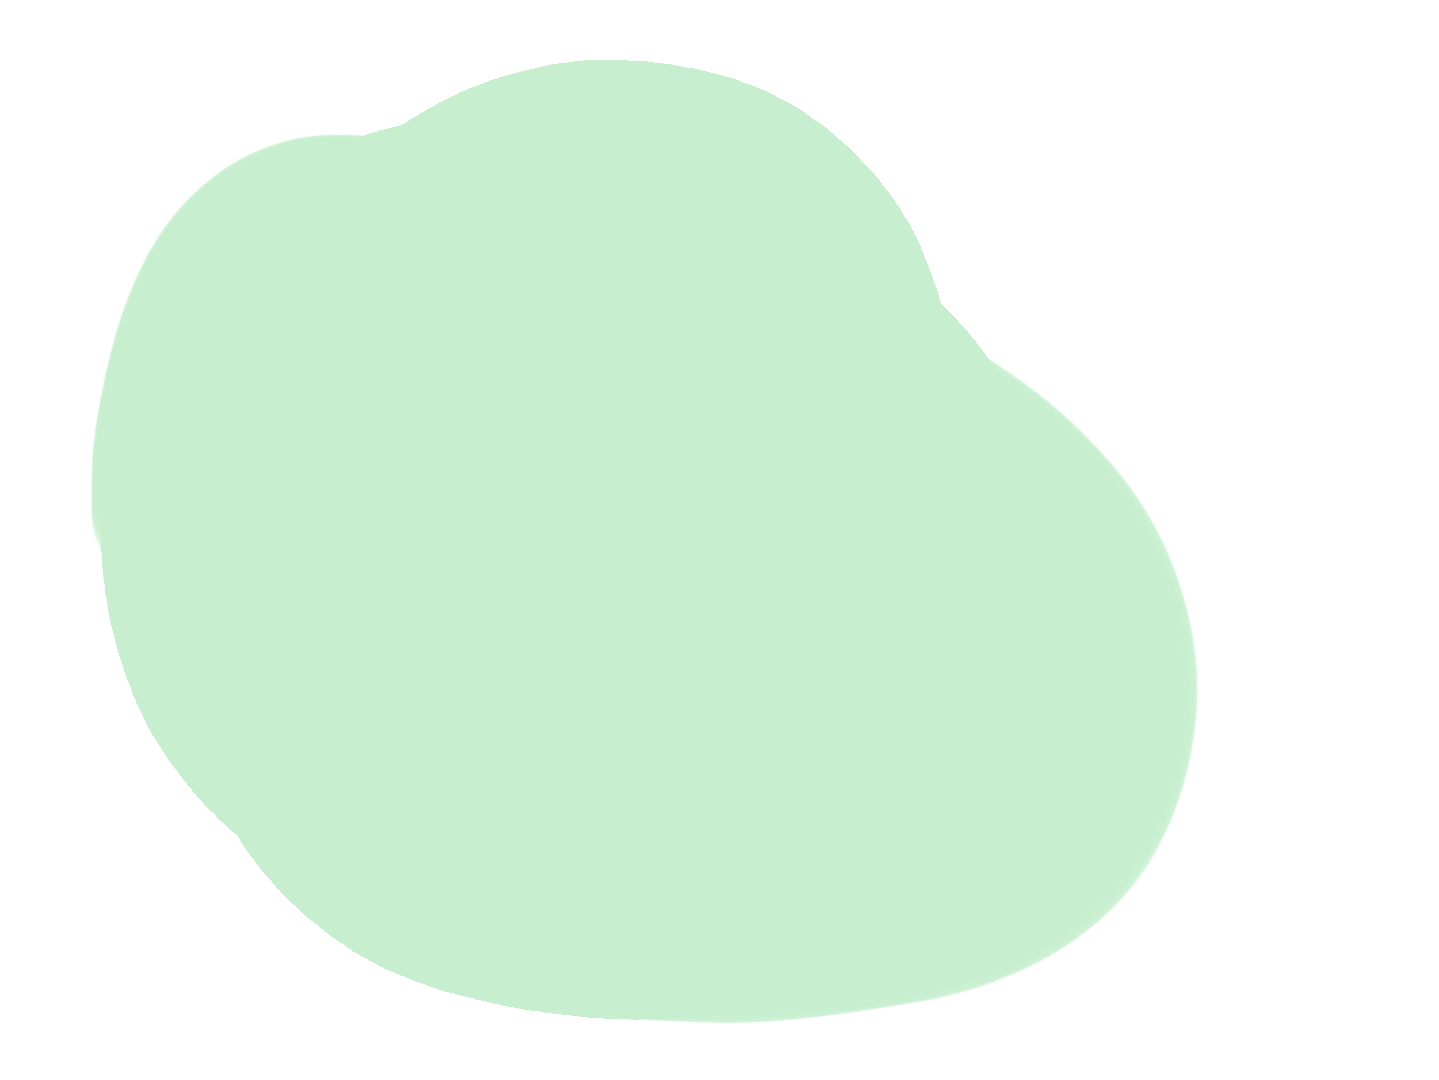
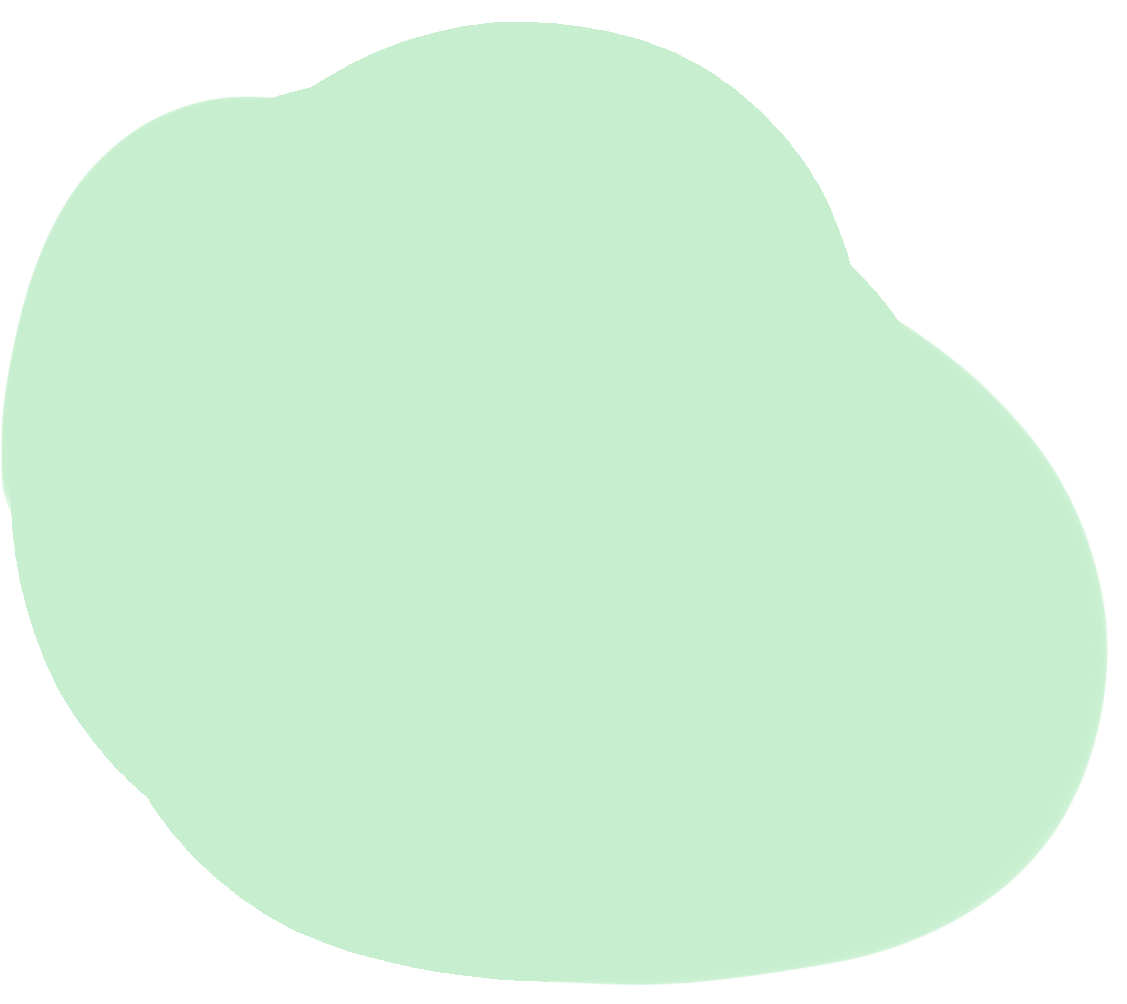
fix

Changed region(s): [[0.0, 0.0, 0.9938, 0.988]]

diff --git a/index.html b/index.html
@@ -1,17 +1,21 @@
 <!DOCTYPE html>
 <html lang="en">
+
 <head>
     <meta charset="UTF-8">
     <meta name="viewport" content="width=device-width, initial-scale=1.0">
     <title>Mia Herman</title>
-    <link rel="stylesheet" href="style.css">
+    <link rel="stylesheet" href="large.css">
+    <link rel="stylesheet" href="medium.css">
+    <link rel="stylesheet" href="small.css">
     <script defer src="script.js"></script>
 </head>
+
 <body>
     <div class="about-me">
         <div>
-           <h1>Hi! I'm Mia Herman</h1>
-           <p>Web development. Graphic Design. Illustrator.<br> Jack of all trades.</p>
+            <h1>Hi! I'm Mia Herman</h1>
+            <p>Web development. Graphic Design. Illustrator.<br> Jack of all trades.</p>
         </div>
         <div>
             <img class="logo" src="images/logo.png" alt="logo">
@@ -19,22 +23,45 @@
     </div>
 
     <div class="portfolio">
-        <div><img class="lime-blob" src="images/lime-blob.png"></div>
-        <div class='text'><h1>SKILLS<br></h1> 
-            <ul><li>Photoshop</li>
-                <li>Illustrator</li>
-                <li>Project Management</li><br>
-                <li>shubulu</li>
-                <li>shubulu</li>
-                <li>shubulu</li>
-                <li>shubulu</li></ul>
-        </div>
+            <img class="lime-blob" src="images/lime-blob.png">
+                <div class="box-1">
+                    <h1>SKILLS<br></h1>
+                    <ul>
+                        <li>Photoshop</li>
+                        <li>Illustrator</li>
+                        <li>Project Management</li><br>
+                        <li>shubulu</li>
+                        <li>shubulu</li>
+                        <li>shubulu</li>
+                        <li>shubulu</li>
+                        <li>shubulu</li>
+                        <li>shubulu</li>
+                        <li>shubulu</li>
+                    </ul>
+                </div>
+
+            <img class="orange-blob" src="images/orange-blob.png">
+                <div class="box-2">
+                    <ul>
+                        <li>Photoshop</li>
+                        <li>Illustrator</li>
+                        <li>Project Management</li><br>
+                        <li>shubulu</li>
+                        <li>shubulu</li>
+                        <li>shubulu</li>
+                        <li>shubulu</li>
+                        <li>shubulu</li>
+                        <li>shubulu</li>
+                        <li>shubulu</li>
+                    </ul>
+                </div>
     </div>
-    
+
     <div class="contact-me">
         <h3>plz write me im lonely</h3>
     </div>
 
-    
+
 </body>
+
 </html>

diff --git a/large.css b/large.css
@@ -41,31 +41,42 @@ h1, p {
 .portfolio {
     position: relative;
     display: flex;
-    justify-content: left;
-    align-items: ;
+    justify-content: space-between;
     background-image: url(/images/pattern.png);
     background-size: 100%;
     background-repeat: repeat;
-    height: 100%;
-    width: 100%;
+    height: 30rem;
+    max-width: 100%;
 }
- 
+
 
 .lime-blob {
-    position: relative;
-    margin: 0;
-    left: 3rem;
+    margin: 4rem auto;
     top: 0;
-    width: 50rem;
-    max-width: 105%;
+    height: 110%;
+    width: 50%;
 }
 
-.text {
-    position: absolute;
+.orange-blob {
+    align-content: right;
+    height: 80%;
     width: auto;
-    padding-left: 11rem;
-    padding-top: 6rem;
+    max-width: 50%;
+}
 
+.box-1 {
+    position: absolute; 
+    display: flex inline-block; 
+    top: 9rem;
+    left: 16%;
+    margin: auto;
+}
+
+.box-2 {
+    top: 3rem;
+    right: 6rem;
+    position: absolute;
+    
 }
 
 .contact-me {

diff --git a/medium.css b/medium.css
@@ -1,0 +1,3 @@
+@media (max-width: 66.75em) {
+    
+}

diff --git a/small.css b/small.css
@@ -1,0 +1,3 @@
+@media (max-width: 66.75em) {
+    
+}
